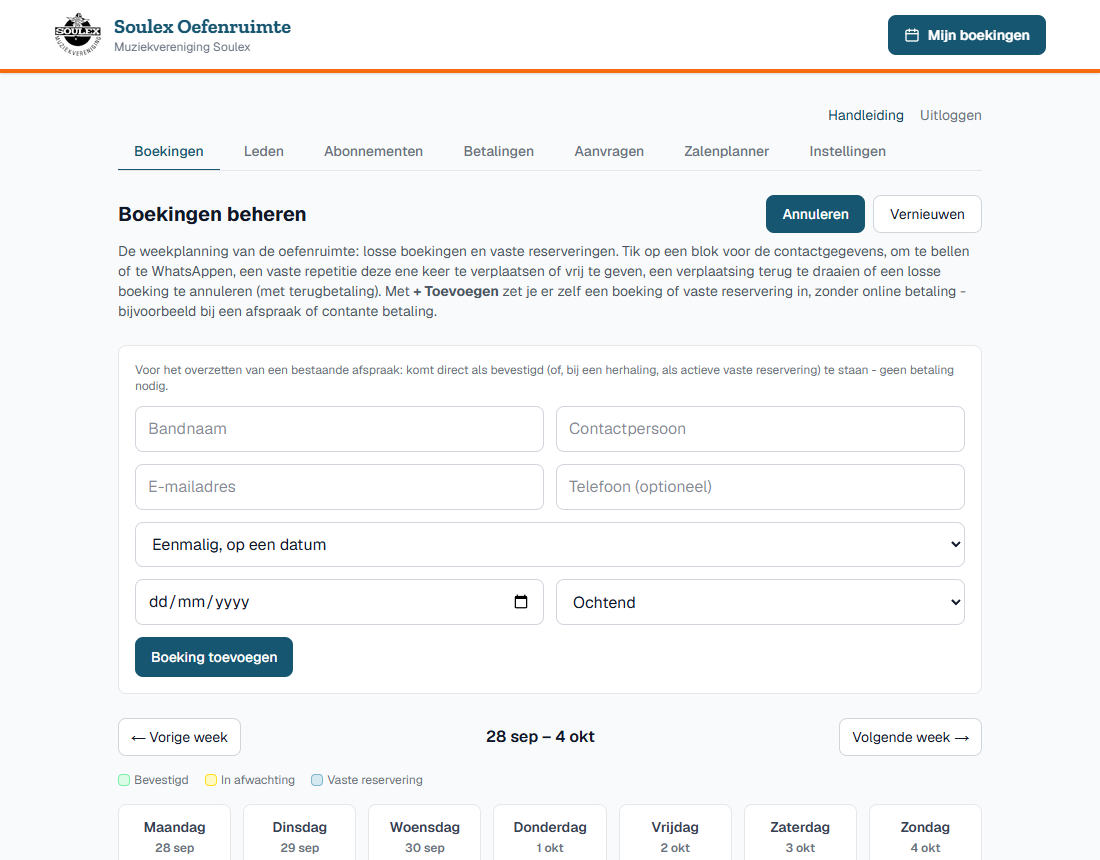
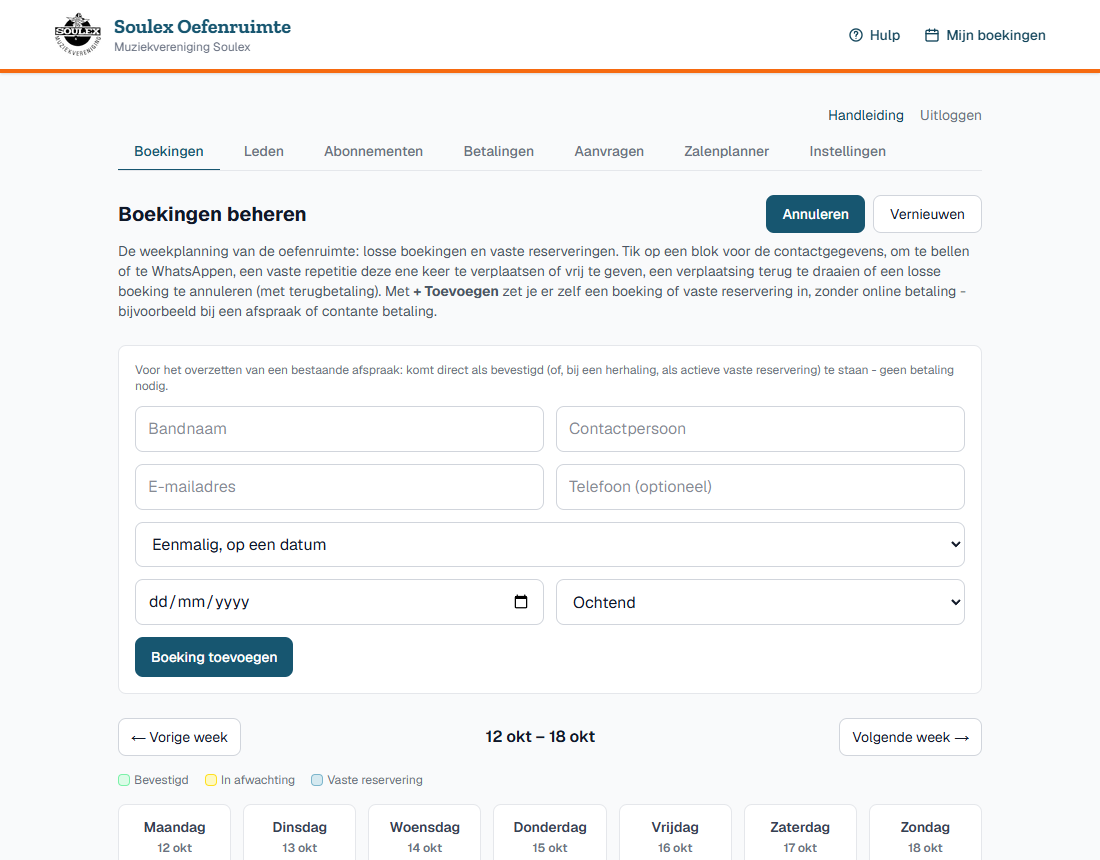
Beheerhandleiding definitief: nieuwe screenshots (achteraf betalen, import/export, nieuwe kopbalk), geen conceptmelding

diff --git a/src/app/admin/handleiding/page.tsx b/src/app/admin/handleiding/page.tsx
@@ -86,11 +86,6 @@ export default async function BeheerHandleidingPage() {
         </p>
       </div>
 
-      <div className="p-4 rounded-xl bg-amber-50 border border-amber-200 text-amber-900 text-sm">
-        <strong>Concept.</strong> Bijgewerkt voor achteraf betalen (oktober 2026); een paar
-        schermafbeeldingen worden nog vervangen.
-      </div>
-
       <nav aria-label="Inhoud" className="bg-white rounded-2xl border border-gray-200 p-5">
         <p className="font-semibold text-blue-900 mb-2">Inhoud</p>
         <ol className="grid sm:grid-cols-2 gap-x-6 gap-y-1 text-sm list-decimal pl-5">
